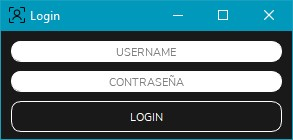
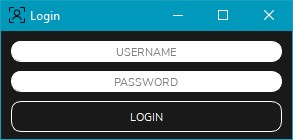
Lenguaje error fixed

Changed region(s): [[0.3686, 0.5429, 0.6451, 0.6286]]

diff --git a/Windows/login.py b/Windows/login.py
@@ -44,4 +44,4 @@ class Ui_login_window(object):
         login_window.setWindowTitle(_translate("login_window", "Login"))
         self.login_button.setText(_translate("login_window", "LOGIN"))
         self.user_input.setPlaceholderText(_translate("login_window", "USERNAME"))
-        self.password_input.setPlaceholderText(_translate("login_window", "CONTRASEÑA"))
+        self.password_input.setPlaceholderText(_translate("login_window", "PASSWORD"))
